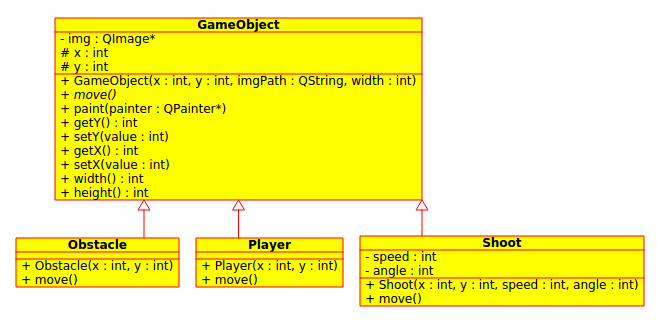
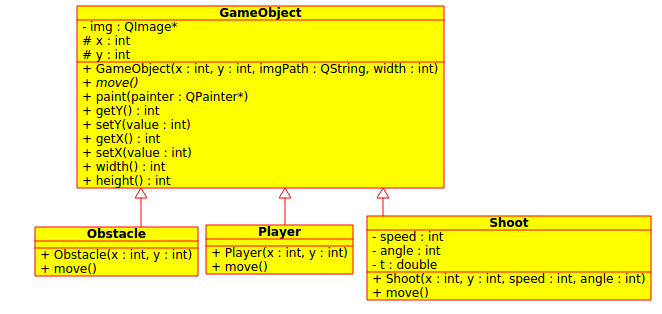
added qt game

Changed region(s): [[0.0, 0.0, 1.0, 0.9745]]

diff --git a/qt.tex b/qt.tex
@@ -671,6 +671,24 @@ Game Objects
 
 \begin{frame}[fragile]
 \frametitle{QT Game}
+Shoot - Projectile motion\\
+\includegraphics[width=100pt]{img/pro_motion.png}
+
+{\small
+\begin{lstlisting}
+const double g = 9.81;
+double rad = 3.1415926 / 180 * angle;
+int dx = speed/3 * cos(rad) * t;
+int dy = speed/3 * sin(rad) * t - (g/2) * pow(t,2);
+t = t+0.1;
+x = x + dx/2;
+y = y - dy/2;
+\end{lstlisting}
+}
+\end{frame}
+
+\begin{frame}[fragile]
+\frametitle{QT Game}
 Thread
 \begin{itemize}
 \item Thread
